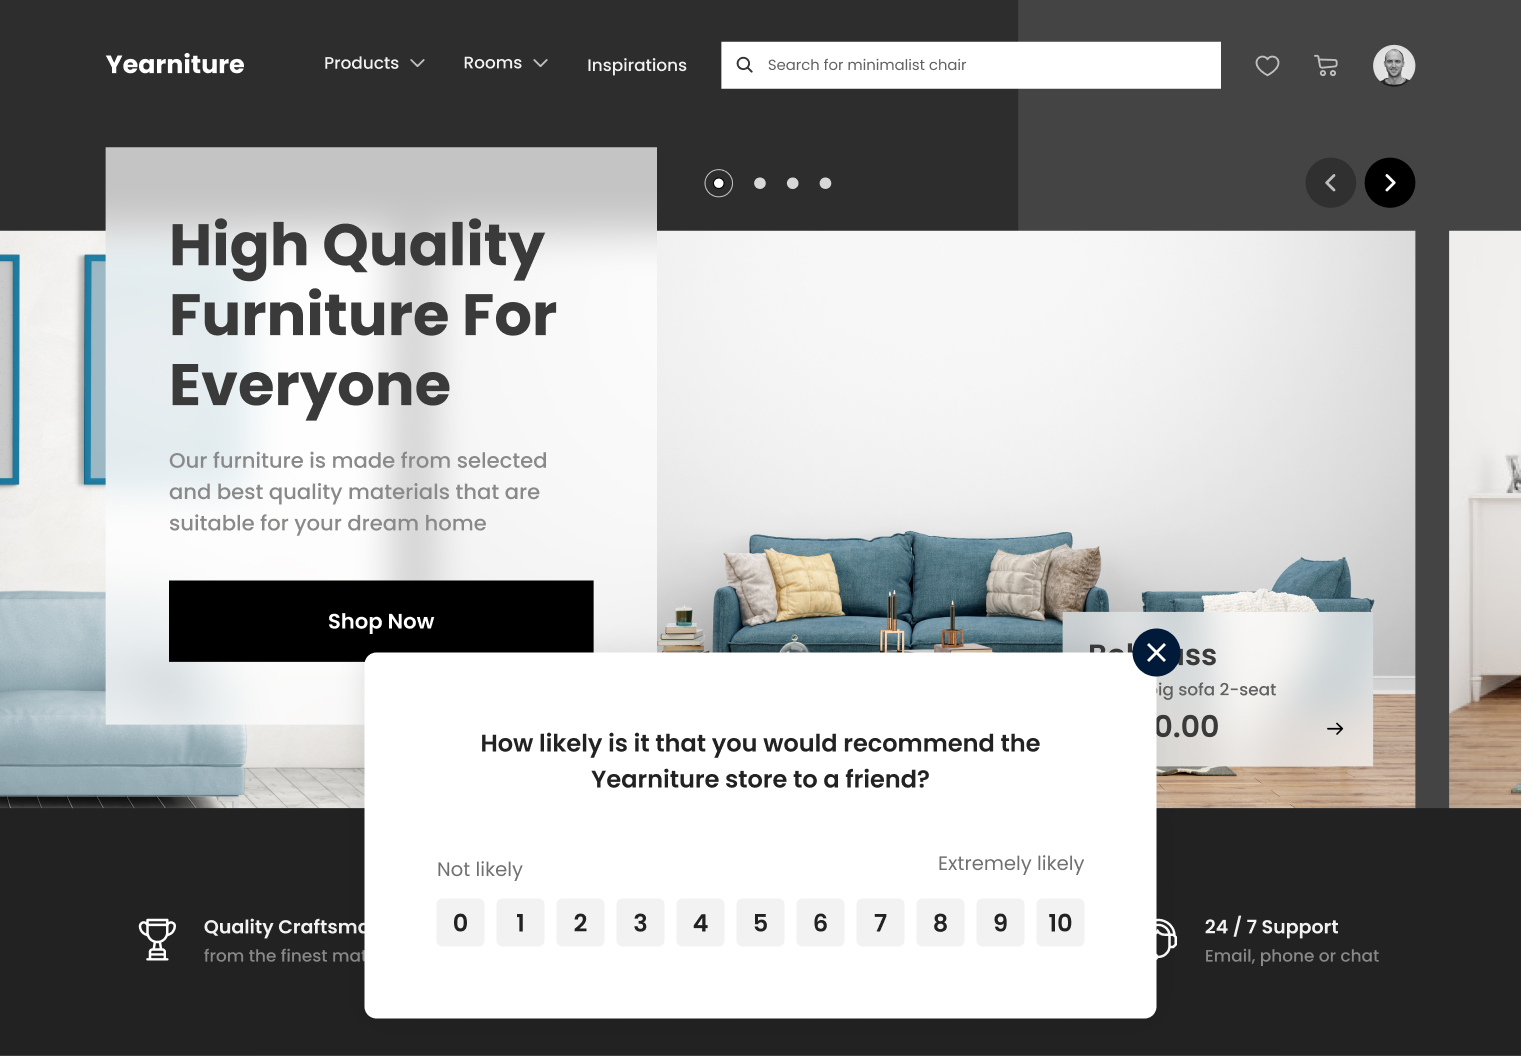
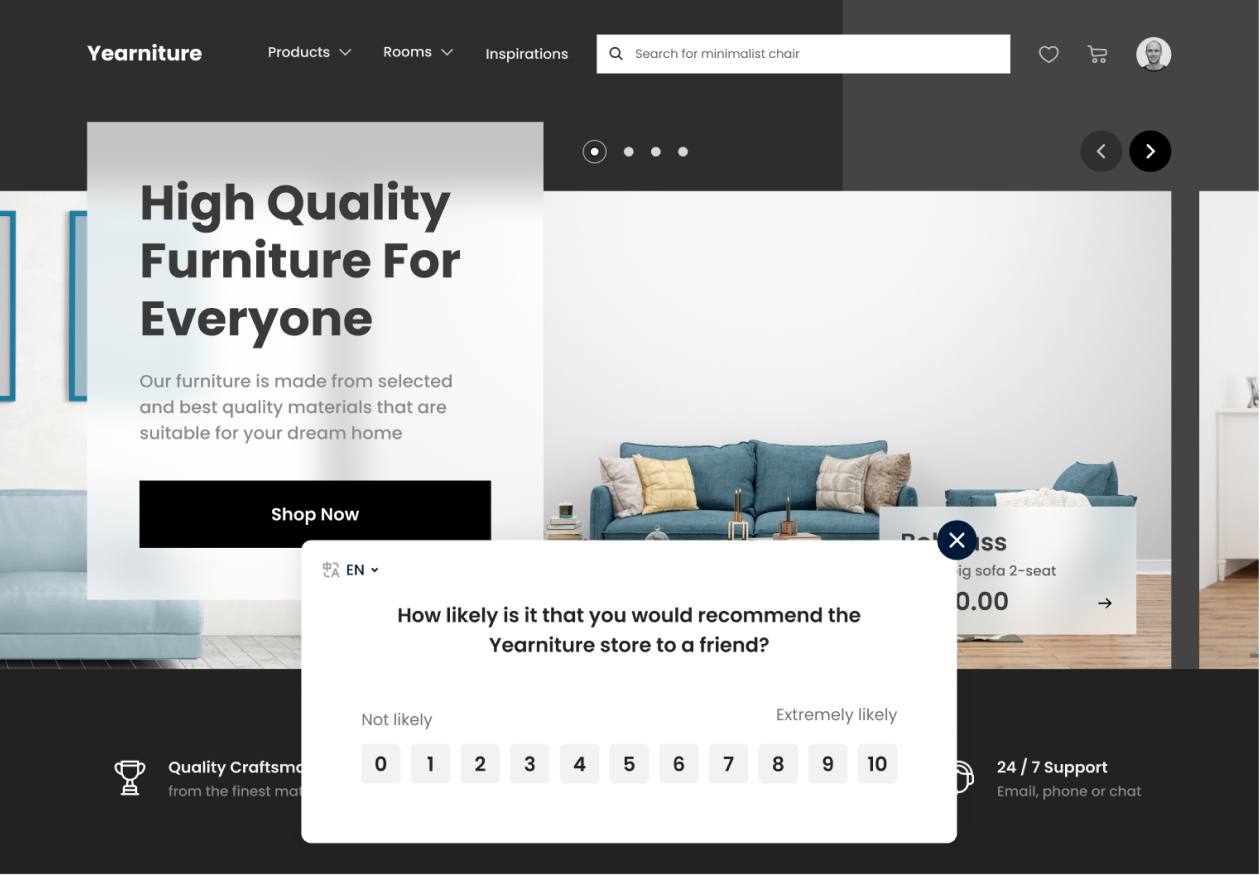
Update feedback page

diff --git a/src/pages/product/feedback.tsx b/src/pages/product/feedback.tsx
@@ -62,6 +62,12 @@ const ProductFeedback: SqueakyPage<NextPage> = () => (
               body: 'We link all feedback directly to recordings, so you can quickly watch back any visit and understand exactly what they experienced when they submitted their feedback.',
               image: <Screenshot screen='session-1' width={738} height={525} />,
               shadowless: true
+            },
+            {
+              icon: 'translate',
+              title: 'Speak your visitor\'s language',
+              body: 'Localize your feedback widgets and surveys so that they\'re available in any language your visitors need.',
+              image: <Screenshot screen='nps-3' width={738} height={525} />,
             }
           ]}
         />
@@ -122,7 +128,7 @@ const ProductFeedback: SqueakyPage<NextPage> = () => (
     </section>
 
     <section className='tools'>
-      <ProductTools options={['analytics', 'recordings', 'heatmaps', 'journeys']} />
+      <ProductTools options={['recordings', 'analytics', 'events', 'journeys', 'heatmaps']} />
     </section>
 
     <section className='easy'>

diff --git a/src/components/screenshots.tsx b/src/components/screenshots.tsx
@@ -18,9 +18,9 @@ import journeys1 from '../../public/screenshots/journeys-1.webp';
 import journeys2 from '../../public/screenshots/journeys-2.webp';
 import journeys3 from '../../public/screenshots/journeys-3.webp';
 import journeys4 from '../../public/screenshots/journeys-4.webp';
-
 import nps1 from '../../public/screenshots/nps-1.webp';
 import nps2 from '../../public/screenshots/nps-2.webp';
+import nps3 from '../../public/screenshots/nps-3.webp';
 import recordings1 from '../../public/screenshots/recordings-1.webp';
 import sentiment1 from '../../public/screenshots/sentiment-1.webp';
 import sentiment2 from '../../public/screenshots/sentiment-2.webp';
@@ -45,6 +45,7 @@ type ScreenshotType =
   'journeys-4' |
   'nps-1' |
   'nps-2' |
+  'nps-3' |
   'recordings-1' |
   'sentiment-1' |
   'sentiment-2' |
@@ -91,6 +92,8 @@ const getScreenSrc = (screen: ScreenshotType) => {
       return nps1;
     case 'nps-2':
       return nps2;
+    case 'nps-3':
+      return nps3;
     case 'sentiment-1':
       return sentiment1;
     case 'sentiment-2':
